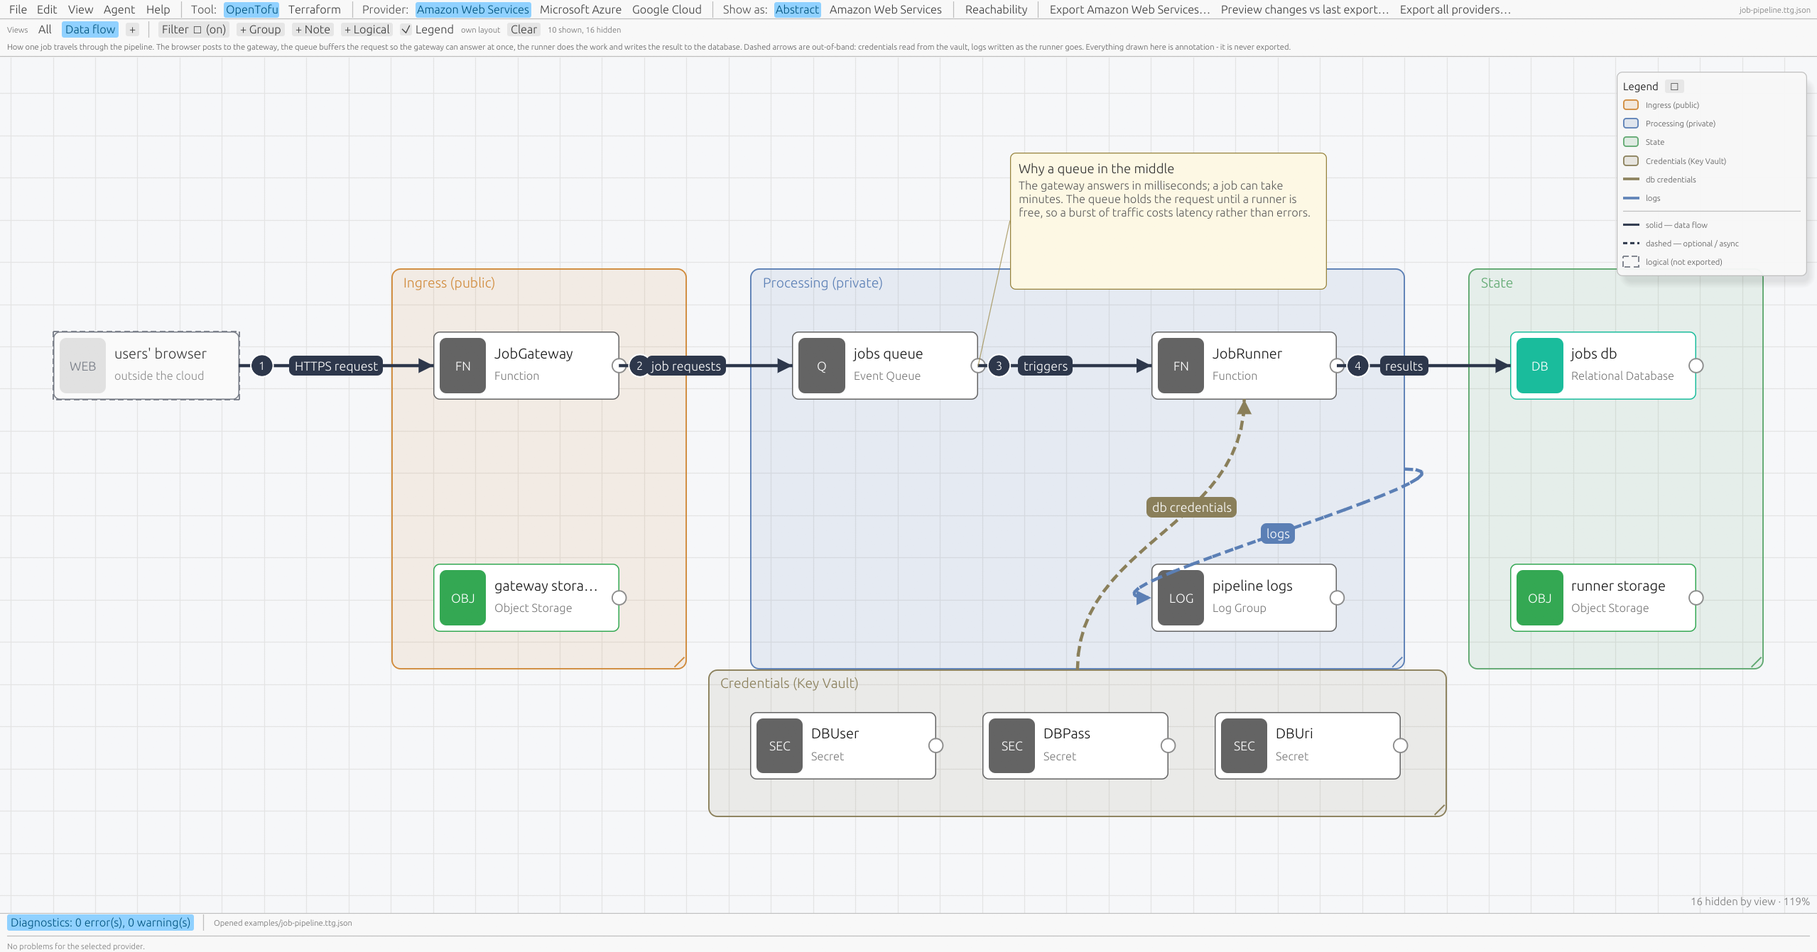
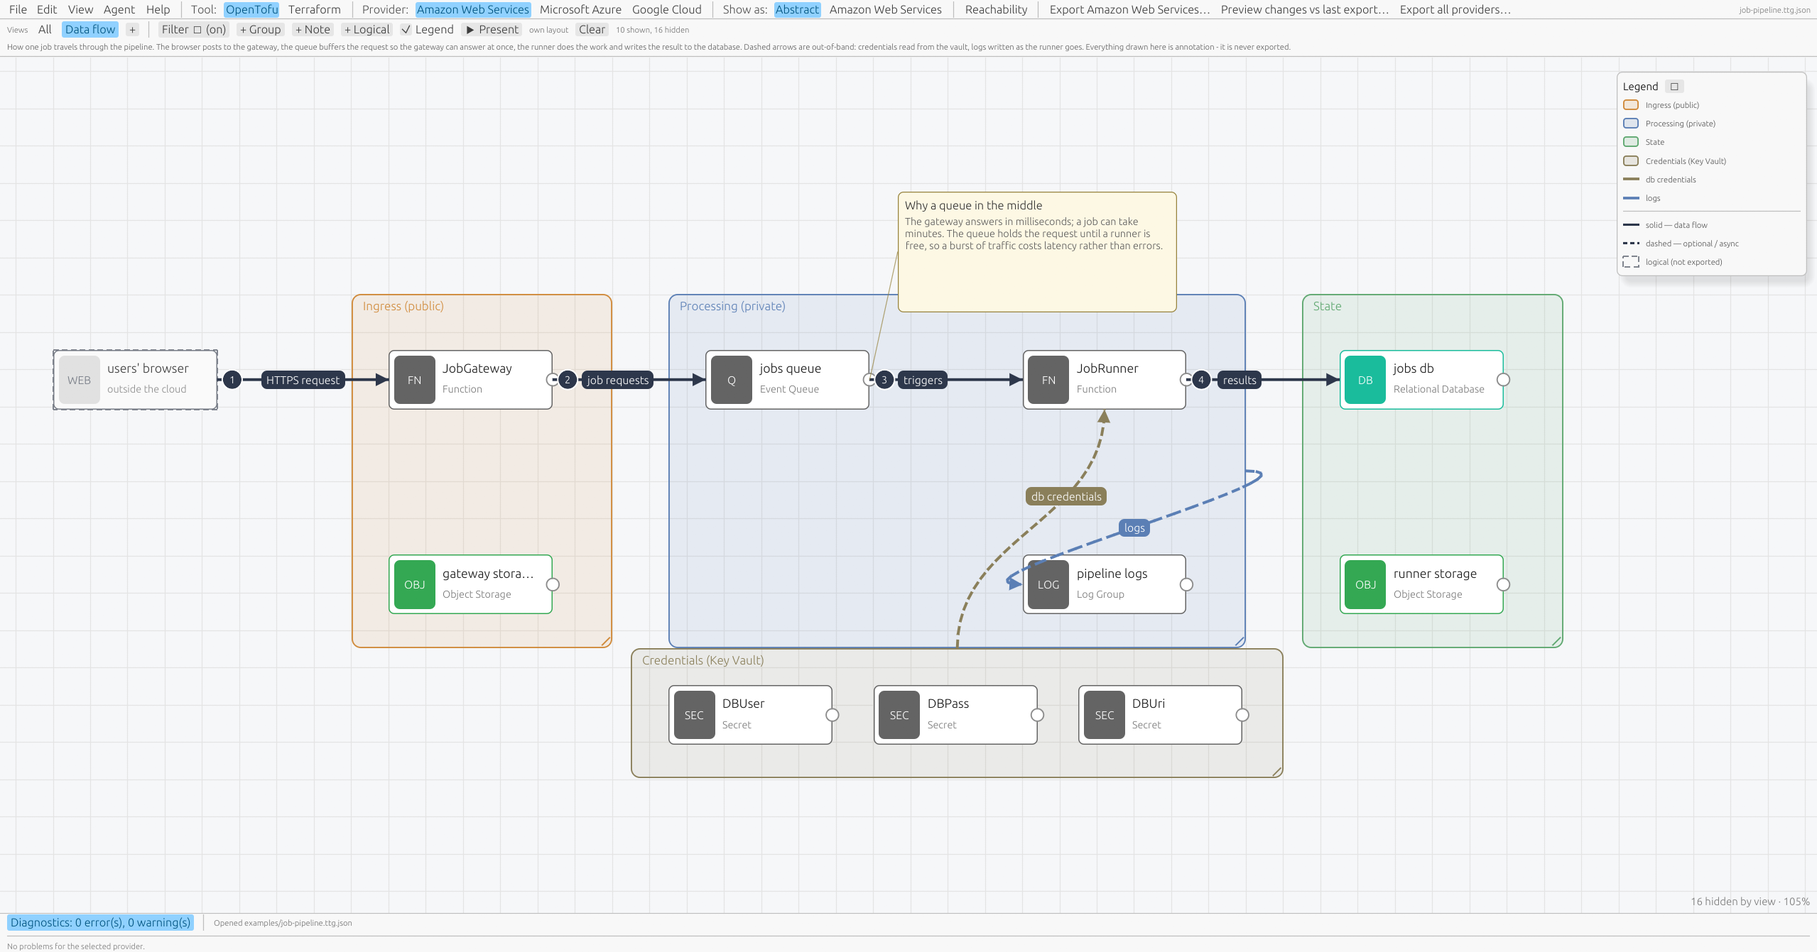
Document the view tools and what an entity is for
README, ARCHITECTURE (the relation-to-flow table, the flow layout, what an entity is
for and the tag precedence), MAPPING_FORMAT (entity_arg), MCP_PLAN and PHASE2_PLAN
describe the new tools and fields; the README counts 51 tools. The job-pipeline view
screenshot is refreshed: the fit now leaves the legend's strip free, so the State box
is no longer under it.

diff --git a/docs/ARCHITECTURE.md b/docs/ARCHITECTURE.md
@@ -127,14 +127,16 @@ All types live in `ttg-core::ir`. Field names below are the serialized names.
 - a **filter** (`categories`, `relations`, `focus` + `depth`, `hidden`, `only`,
   `containers`, plus `providers` = provider layers, `origin` = `all` | `curated` |
   `native`, `types` = abstract type ids, `name_glob` = case-insensitive `*` / `?` glob on
-  the display name, and `hide_edges` to draw no structural links at all);
+  the display name, `classifications` = only entities classified as one of these, and
+  `hide_edges` to draw no structural links at all);
 - an optional `layout` (`positions` / `sizes` keyed by entity id that override the shared
   ones while the view is active);
 - a `description` and a `legend` flag;
 - annotations: `groups` (labelled boxes with `position`, `size`, optional `color`;
   nesting and membership are geometric), `flows` (labelled arrows between
   `{ "entity": id }` / `{ "group": id }` / `{ "logical": id }` ends, optionally `dashed`,
-  with an optional `step` number and `color`), `notes` (`title`, `body`, `size` and
+  with an optional `step` number, `color` and `data` — what travels along it, in words),
+  `notes` (`title`, `body`, `size` and
   either a free `position` or an `anchor` — any flow end, or `{ "flow": id }` — with
   `position` read as the offset from it) and `logicals` (annotation-only nodes: `name`,
   `icon`, `subtitle`, `position`, `size`).
@@ -143,9 +145,43 @@ All of it affects only what the GUI draws, never what is generated.
 `ttg_core::view` holds the geometry the canvas and the document renderer share: where a
 view puts an entity (in a view with its own layout a container is the padded bounding box
 of the members it still shows), which entities and logical nodes a box holds, where an
-anchored note lands, and how boxes nest. `ttg_codegen::views` holds the filter evaluation
-(`visible_set`, used by the canvas, the view bar, `view_get` and the CLI alike) and the
-Markdown / Mermaid renderers behind `ttg view export` and the `view_export` tool.
+anchored note lands (and where a note placed beside its anchor goes: `note_offset_beside`
+/ `arrange_notes`, shared by `view_note_add`, `view_arrange_notes` and tidy), and how
+boxes nest. `ttg_core::flow_layout` lays a view out by its flows: a layered drawing
+ranked by the longest path of flows taken in step order (a depth-first walk from the
+earliest steps drops the flows that close a cycle), the view's grouping boxes as
+swimlanes stacked in the order their members first take part, four barycentre sweeps
+against crossings, and each item aiming for the height of what flows into it; positions
+land in the view's own layout and the boxes are refitted around their members.
+`ttg_codegen::views` holds the filter evaluation (`visible_set`, used by the canvas, the
+view bar, `view_get` and the CLI alike) and the Markdown / Mermaid flowchart / Mermaid
+`sequenceDiagram` renderers behind `ttg view export` and the `view_export` tool.
+`ttg_codegen::dataflow` derives flows from links — one table (`dataflow::rule`) decides
+per relation kind, and per source / target type where the kind is ambiguous, whether a
+link carries data, which way it moves and what to call it:
+
+| relation | when | data moves | label |
+|---|---|---|---|
+| `sends_to` | always | source → target | sends to |
+| `dead_letters_to` | always | source → target | dead letters (dashed) |
+| `logs_to` | always | source → target | logs (dashed) |
+| `calls` | always | source → target | calls |
+| `reads` | source is a workload | target → source | read by |
+| `attribute_reference` | workload → queue | target → source | consumed by |
+| `attribute_reference` | workload → database, cache, bucket, file system, table | source → target (both ways) | uses |
+| `attribute_reference` | CDN → bucket or load balancer | source → target | origin |
+| `attachment` | anything → file system | target → source (both ways) | mounted by |
+| `attachment` | load balancer → instance or cluster | source → target | forwards to |
+| `attachment` | scaling group or Kubernetes workload → load balancer | target → source | forwards to |
+| `attachment` | audit trail → bucket | source → target | writes to |
+
+Everything else — `network_membership`, `iam_binding`, `encrypted_with`, `depends_on`,
+containment, security groups, certificates, a database reading its own password, a
+function's code bucket, what an alarm watches, a workload's image registry and node
+pool — is structure and produces no flow.
+"Both ways" marks a read/write link, which is what the "Where personal data goes" view
+(`dataflow::personal_data_view`) follows from the entities classified personal or
+payment.
 
 ### 4.2 `Node`
 
@@ -164,9 +200,24 @@ Markdown / Mermaid renderers behind `ttg view export` and the `view_export` tool
   "parent": "vnet-1c9e77aa",            // container id or null
   "manual": false,                      // "external / manage by hand" flag
   "providers": ["azure"],               // optional: provider layers this entity is part of (absent = all)
-  "extra": { "aws": { "main": { "force_destroy": true } } }   // optional: extra provider arguments per block
+  "extra": { "aws": { "main": { "force_destroy": true } } },  // optional: extra provider arguments per block
+  "classification": "personal",         // optional: public | internal | confidential | personal | payment
+  "description": "Call recordings",     // optional: why it exists
+  "owner": "Platform team"              // optional: who looks after it
 }
 ```
+
+**What an entity is for.** `classification`, `description` and `owner` are on every
+node and container (like `providers`, not per-type catalog fields), all optional and
+absent from the file when unset. The classification drives the view filter and the
+"Where personal data goes" view (posture rules on it are a later package). The owner
+and description reach the HCL through the provider definition's
+`default_tags.entity_arg` (MAPPING_FORMAT.md §4.3): an `Owner` and a `Description` tag on
+AWS and Azure (one line, cut to 256 characters), an `owner` label on Google Cloud (label-
+safe, 63 characters; no description, which a label cannot hold), and on every provider a
+comment above the entity's first block with the full description, the owner and the
+classification. Precedence, most specific first: the mapping's own tags and `extra` ›
+the entity's Owner / Description › the project-wide `settings.tags`.
 
 **Extra arguments.** `extra` is provider id → block key → argument name → JSON value,
 merged into the generated block after the mapping's own arguments (yours win). Nested
@@ -618,7 +669,8 @@ stays); `diff::against_dir` lists the same stale files as removed.
 | `clipboard.rs` | copy/paste of a sub-diagram as JSON (fresh ids, de-duplicated names, edges between copied items kept) |
 | `cost_panel.rs` | the Cost window: estimate for a chosen provider, per resource / type / view, assumptions and display currency editable in place |
 | `views.rs` | the view bar (tabs, description, legend toggle, annotation buttons), the filter menu, and the per-frame visible set (`ttg_codegen::views::visible_set` plus the "a fitted container with no visible members is not drawn" rule) |
-| `annotations.rs` | drawing and editing a view's groups, flows, notes and logical nodes; the legend panel; geometry delegated to `ttg_core::view` |
+| `annotations.rs` | drawing and editing a view's groups, flows, notes and logical nodes; the legend panel (and the strip of the canvas "zoom to fit" leaves it); geometry delegated to `ttg_core::view`. Flows fan out along a shared side, follow `canvas::routed_path` when *Route around nodes* is on, and place their labels clear of nodes, badges and each other — along the arrow first, then stepped off it on a leader line |
+| `view_tools.rs` | the View menu's view tools (flows from links, tidy by flows, arrange notes, "Where personal data goes") as single undo steps, and presentation mode: the step state, its keys and the caption |
 | `camera.rs` | world/screen transform, zoom-about-pointer, zoom-to-fit |
 | `history.rs` | snapshot-based undo/redo (the project is small; a clone per committed action is simpler and safer than command objects) |
 

diff --git a/README.md b/README.md
@@ -194,10 +194,39 @@ OpenTofu installed, so a definition change that produces invalid HCL fails the b
     *Legend* tick box shows what the group colours, flow colours and line styles mean,
     and is remembered with the view.
   Hidden resources are still exported; the corner label says how many are hidden.
+  The **View** menu's *Active view* tools do the tedious parts:
+  - *Generate data flows from links* draws a flow for every link that carries data
+    between the resources the view shows — sends to, reads, uses, logs, dead letters,
+    calls, mounts, forwards to — in the direction the data moves (a secret is *read by*
+    the function, a queue is *consumed by* its worker), never duplicating a pair that
+    already has a flow. Network membership, IAM bindings, encryption and containment
+    produce nothing. You add the numbering and the prose.
+  - *Tidy by flows* lays the view out left to right by its flows and step numbers, each
+    grouping box a swimlane of its own, in the view's own layout only; flows fan out
+    along the side of a busy node, are routed around nodes when *Route around nodes* is
+    on, and a label with no room on its arrow steps off it on a short leader line.
+  - *Arrange notes* puts every pinned note back beside what it explains (tidying a view
+    does this too), and *zoom to fit* keeps the legend's strip free so nothing is drawn
+    under it.
+  - *Present steps* (or **▶ Present** on the view bar) steps through the numbered flows
+    with ← → or Space: the current step's flows and ends are highlighted, the rest
+    faded, and a caption shows the step's labels and any note pinned to those flows.
+    Esc leaves.
+  - *Build "Where personal data goes"* makes (or refreshes) a view of the resources
+    classified *personal* or *payment* and everything their data reaches one link on.
+  Every resource also says what it is for: a **classification** (public, internal,
+  confidential, personal, payment — a pill on the node and a *Classification* filter), an
+  **owner** and a **description**. The owner and description are emitted as `Owner` /
+  `Description` tags on AWS and Azure (an `owner` label on Google Cloud) and as a comment
+  above the resource's blocks in the generated HCL; a flow can say what **data** travels
+  along it ("call audio"), drawn under its label.
   A view can also be written out as a document:
-  `ttg view export <project> "Data flow" --format md|mermaid` gives the description, the
-  groups with their members, the flows in step order and the notes, or a Mermaid
-  `flowchart LR`; `ttg view list <project>` names them. For a picture, take a screenshot
+  `ttg view export <project> "Data flow" --format md|mermaid|sequence` gives the
+  description, the resources it shows (with classification, description and owner when
+  any is set), the groups with their members, the flows in step order and the notes; a
+  Mermaid `flowchart LR`; or a Mermaid `sequenceDiagram` of the numbered flows (steps
+  sharing a number side by side in a `par` block). `ttg view list <project>` names them.
+  For a picture, take a screenshot
   with the canvas fitted and the panels hidden (the agent tool does both). The
   job-pipeline example ships a "Data flow" view built this way:
 
@@ -312,7 +341,7 @@ watch it happen. It is off until you switch it on:
    shows what the agent did. Saving to disk only happens when a tool is explicitly asked
    to, and opening another file goes through the same unsaved-changes prompt as the menu.
 
-The 49 tools cover reading (project, catalog, catalog relations, diagnostics,
+The 51 tools cover reading (project, catalog, catalog relations, diagnostics,
 reachability, export preview, one entity's HCL with `entity_preview`, export diff,
 `view_get`, `view_export`, screenshot) and editing (add/update/move/resize/
 reparent/delete entities, links, selection, views, tidy/align/distribute, settings,
@@ -325,7 +354,13 @@ themselves are editable: `view_save { replace }` rewrites a saved filter without
 disturbing the drawing on it, `view_update { filter }` does the same by name, and
 `view_delete` removes one. `view_fit` plus `screenshot { view, fit, hide_panels, width,
 height }` let it look at what it drew — the window is resized for the capture and put
-back, so a big view is readable however small the window was.
+back, so a big view is readable however small the window was. `view_generate { kind:
+"data_flow" }` derives a view's flows from the links and `{ kind: "personal_data" }`
+builds "Where personal data goes"; `layout_tidy { view, by: "flows" }` lays a view out by
+its flows and `view_arrange_notes` puts its notes back beside their anchors;
+`view_export { format: "sequence" }` gives the steps as a sequence diagram; and
+`entity_update` (one entity or a `select`) takes `classification`, `description` and
+`owner`.
 Reads can be narrowed (`diagnostics { entity, severity, provider }`, `project_get { fields,
 entities }`) and writes widened: `entity_update` and `link_add` take a `select` (`types`,
 `name_glob`, `ids`) to change or link many entities as one undo step. `serverInfo` and the

diff --git a/docs/PHASE2_PLAN.md b/docs/PHASE2_PLAN.md
@@ -755,6 +755,60 @@ design by hand at £350-400 a month for the architecture document.
   exceeded, so the warning fires; at two GPU hours a day and single-AZ the design is
   about $645.
 
+## Round 3: views and metadata (gap report R3.22–R3.27)
+
+The CallScope design's "Data flow" view had 31 hand-drawn flows that the workload links
+already implied, labels overprinting where six or more flows met, a tidy that ranked by
+dependency rather than by flow, notes left far from their anchors after a move, a legend
+covering the corner of a fitted capture, and nothing in the model saying which
+resources hold personal data, why a resource exists or who owns it.
+
+- **Flows from links** (R3.22) — `ttg_codegen::dataflow`: one table decides, per
+  relation kind and (where the kind is ambiguous) per source / target type, whether a
+  link carries data, which way it moves and what to call it (the table is in
+  ARCHITECTURE.md §4.1). `view_generate { kind: "data_flow" }` and View ▸ *Generate data
+  flows from links* draw them between the view's visible resources, never duplicating a
+  pair that already has a flow; one undo step. Of the Kubernetes manifest links,
+  'Receives traffic from' a load balancer is a flow (the balancer forwards to the
+  workload); 'Runs image from' and 'Schedules on' are not.
+- **Tidy by flows** (R3.23) — `ttg_core::flow_layout`: a layered layout ranked by the
+  longest path of flows in step order (cycles broken at the flow that closes them), the
+  grouping boxes as non-overlapping swimlanes stacked in the order they first take part,
+  four barycentre sweeps, and straight chains where there is room; always into the
+  view's own layout. `layout_tidy { view, by: "flows" }` and View ▸ *Tidy by flows*.
+  Flows now fan out along a shared side of a node, follow the obstacle-aware orthogonal
+  routing when *Route around nodes* is on, stagger their step badges, and place labels
+  clear of nodes, badges and each other: along the arrow first, then stepped off it
+  perpendicular with a leader line when six or more flows meet.
+- **Sequence and presentation** (R3.24) — `view_export { format: "sequence" }` / `ttg
+  view export --format sequence` writes the numbered flows as a Mermaid `sequenceDiagram`
+  (participants in order of appearance, logical nodes and boxes included, shared step
+  numbers as `par` blocks, dashed flows as `-->>`). *Present steps* / **▶ Present** steps
+  through them in the GUI with the arrow keys, highlighting the step's flows and ends,
+  fading the rest and captioning the step with its labels and pinned notes; Esc leaves.
+- **Notes and the legend** (R3.25) — the round-2 note placement moved to
+  `ttg_core::view` (`note_offset_beside`, `arrange_notes`); `view_arrange_notes` and View ▸
+  *Arrange notes* use it, and tidying a view (by links or by flows) runs it in the same
+  undo step. Zoom to fit leaves the legend's strip on the right free when the legend is
+  on (reserving its screen rect rather than drawing it inside the fitted bounds), so a
+  fitted screenshot has nothing under it.
+- **Classification** (R3.26) — an optional `classification` on every node and container
+  (public, internal, confidential, personal, payment), set in the inspector or by
+  `entity_update` (one entity, or every match of `select` in one undo step), drawn as a pill, filtered by `ViewFilter.classifications`, and listed in
+  `project_get`, `project_summary` and the Markdown export. A flow's `data` says what it
+  carries. `view_generate { kind: "personal_data" }` / View ▸ *Build "Where personal data
+  goes"* builds or refreshes a view of the classified entities, what their data reaches
+  one link on, and the flows between them, laid out by its flows. Posture rules keyed on
+  the classification are left to a later package.
+- **Description and owner** (R3.27) — on every entity too, emitted through the provider
+  definition's new `default_tags.entity_arg`: `Owner` / `Description` tags on AWS and
+  Azure (one line, cut to 256 characters), an `owner` label on Google Cloud, and a comment
+  above the entity's first block everywhere. The mapping's tags and `extra` win over the
+  entity's, which win over the project's. The Markdown export's new *Resources* table
+  gains Classification / Description / Owner columns when any is set, and
+  `project_summary` reports them. `examples/job-pipeline.ttg.json` gives its resource
+  group and network an owner and a description, so the validate suite exercises the tags.
+
 ## Explicitly still out of scope
 
 Running `plan`/`apply`, live-account access, multi-user collaboration, drift detection

diff --git a/docs/MCP_PLAN.md b/docs/MCP_PLAN.md
@@ -127,6 +127,28 @@ display. `TTG_WINDOW_SIZE=WxH` does the same for the `--screenshot` CLI path.
 `view_set` / `view_update` filter descriptions; it round-trips through `view_save`,
 `view_update { filter }` and `view_get` like every other key.
 
+Added 2026-09-29 (round 3, views and metadata, 49 → 51 tools): `view_generate { view?,
+kind, replace? }` — `data_flow` draws a view's flows from the links between the
+resources it shows (`ttg_codegen::dataflow`, whose relation → direction table is in
+ARCHITECTURE.md §4.1), skipping any pair that already has a flow, with `replace` first
+removing the resource-to-resource flows; the reply lists what was added, and a
+generation that changes nothing records no undo step. `personal_data` builds or
+refreshes "Where personal data goes" and switches to it. `view_arrange_notes { view? }`
+puts anchored notes back beside their anchors (`ttg_core::view::arrange_notes`, the same
+placement `view_note_add` uses). `layout_tidy` takes `view` and `by: links | flows`:
+`flows` is `ttg_core::flow_layout`, written into the view's own layout only, and either
+way a tidied view gets its notes rearranged in the same undo step. `view_fit` reports
+`legend_reserved_px`: with the legend on, the fit leaves its strip on the right free, so
+a fitted screenshot never has content under it. `view_export` takes `format: sequence`
+(a Mermaid `sequenceDiagram` of the numbered flows). `entity_update` takes
+`classification` (`"none"` or `""` clears it), `description` and `owner`, validated
+before anything is written and committed in the update's own undo step, and the bulk
+form `{ select }` carries them too (`EntityChanges::meta`); `entity_json`,
+`project_summary` (per entity, when set, plus a `classified` count) and `project_get`
+carry them. `view_flow_add` takes `data` beside `show_hidden`, and `view_get` reports
+it. New anchored notes are placed by `ttg_core::view::note_offset_beside`; `view_get`
+still reports where a note is drawn and the offset it stores (`note_geometry`).
+
 Not applying a command twice (2026-09-17): a tool call that timed out used to leave its
 command in the channel, so it ran later, beside whatever the agent retried. Three things
 stop that. `TtgApp::run_validate` runs `<tool> init && validate` on a background thread
@@ -306,7 +328,15 @@ anchored note (the report's (−1850, −1850) case), hidden flow ends with `sho
 filter), omitted entities and the `diagnostics` filters, `project_get` slices with
 `catalog_relations` and `entity_preview`, `dry_run` (the delta, nothing left in the
 project, history, redo stack or revision) and the bulk writes (one undo step, one
-revision, every refusal listed, empty and non-matching selections). Codegen tests cover
+revision, every refusal listed, empty and non-matching selections), and for views and
+metadata `headless_views_and_metadata`: `view_generate` (the secrets *read by* the
+runner, no duplicate of a hand-drawn pair, a second run adding nothing, one undo),
+`view_arrange_notes` bringing a moved note back, `layout_tidy { by: "flows" }`
+refusing without a view and then ordering the pipeline left to right in the view's
+layout while the shared layout stays put, the sequence export, the classification /
+description / owner round trip (reply, project, summary, undo, and the bulk form),
+the classification filter, and the personal-data view created and then refreshed.
+Codegen tests cover
 the other-provider info lines, `Generated::entity_preview` and `views::reveal`; the
 catalog crate tests the fingerprint. The unit tests beside `mcp/mod.rs` cover the
 dropped-caller rule (fresh and deferred), the heartbeat, the screenshot size clamp,

diff --git a/docs/MAPPING_FORMAT.md b/docs/MAPPING_FORMAT.md
@@ -697,6 +697,25 @@ With `resource_arg` the emitter adds the argument to every emitted resource whos
 schema has it, after the mapping has run; a tag the mapping set itself (a resource's own
 `Name`) wins over the project's.
 
+`entity_arg` names the argument a resource carries its *own* tags in (`tags` on AWS and
+Azure, `labels` on Google Cloud). An entity's `owner` becomes an `Owner` tag there — an
+`owner` label, made label-safe and cut to 63 characters, when `sanitize_labels` is set —
+and its `description` a `Description` tag (one line, AWS's tag character set, cut to 256
+characters); a label cannot hold prose, so on a label provider the description is only
+the comment above the entity's blocks, which every provider gets. The merge runs before
+the project's tags and never overwrites a key the block already has, so the precedence
+is: the mapping's own tags and `extra` › the entity's Owner / Description › the
+project-wide tags (AWS and Google Cloud apply the same rule themselves: a resource's tag
+wins over `default_tags` / `default_labels`). A provider without `entity_arg` gets no
+per-entity tags.
+
+```toml
+[default_tags]
+block = "default_tags"
+arg = "tags"
+entity_arg = "tags"                    # Owner / Description on each resource
+```
+
 ---
 
 ## 5. Checklist for a new definition
